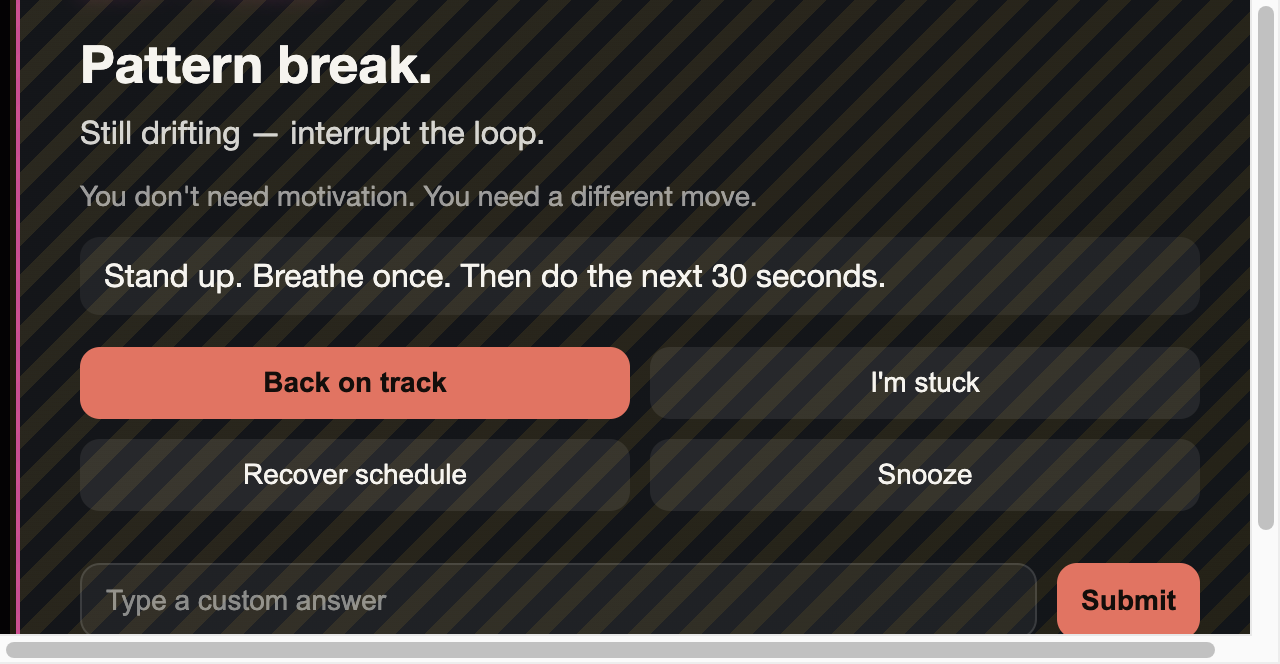
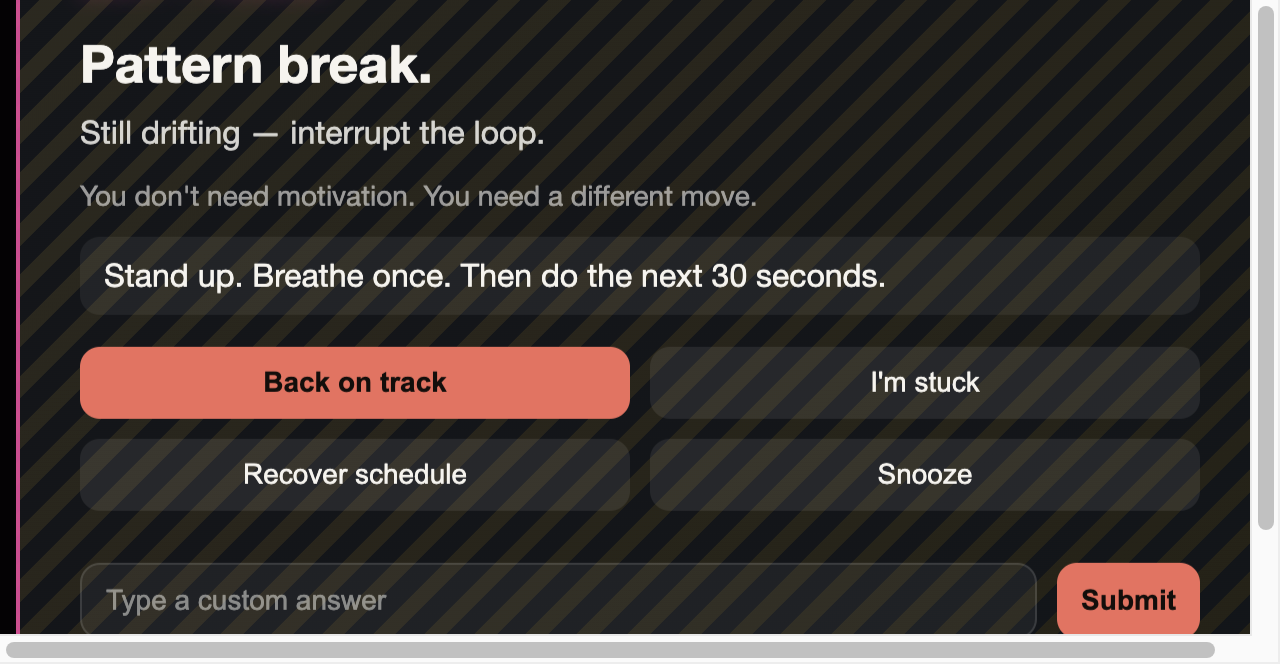
Overlay: pattern-break styling on DRIFT_PERSIST

Changed region(s): [[0.0, 0.0, 0.0312, 0.9639]]

diff --git a/overlay/overlay.css b/overlay/overlay.css
@@ -204,6 +204,28 @@ button.primary:hover {
   color: rgba(246, 244, 239, 0.5);
 }
 
+/* Visual pattern-break for persistent drift: subtle but unmistakable */
+@keyframes driftPersistPulse {
+  0% {
+    box-shadow: 0 20px 60px rgba(0, 0, 0, 0.45), 0 0 0 rgba(241, 108, 91, 0);
+    transform: translateY(0);
+  }
+  45% {
+    box-shadow: 0 20px 60px rgba(0, 0, 0, 0.45), 0 0 0 10px rgba(241, 108, 91, 0.12);
+    transform: translateY(-1px);
+  }
+  100% {
+    box-shadow: 0 20px 60px rgba(0, 0, 0, 0.45), 0 0 0 rgba(241, 108, 91, 0);
+    transform: translateY(0);
+  }
+}
+
+#overlay[data-event-type="DRIFT_PERSIST"] .card {
+  border-color: rgba(241, 108, 91, 0.35);
+  background: linear-gradient(140deg, rgba(26, 16, 16, 0.93), rgba(10, 12, 15, 0.96));
+  animation: driftPersistPulse 1.15s ease-in-out 0s 3;
+}
+
 /* Visual pattern-break: DRIFT_PERSIST should feel unmistakably different. */
 #overlay[data-event-type="DRIFT_PERSIST"] {
   background: rgba(10, 4, 10, 0.55);

diff --git a/overlay/overlay.js b/overlay/overlay.js
@@ -91,6 +91,7 @@ function showOverlay(payload) {
   }
 
   overlay.dataset.level = payload.level || "B";
+  overlay.dataset.eventType = payload.source_event_type || payload.event_type || "";
   currentPayload = payload;
   shownAt = Date.now();
 }

diff --git a/runner.py b/runner.py
@@ -1159,6 +1159,7 @@ def main() -> int:
                     "ts": dt.datetime.now().isoformat(),
                     "cmd_id": ensure_uuid(),
                     "source_event_id": event.get("event_id"),
+                    "source_event_type": event.get("type"),
                     "source": "runner",
                     "level": "B",
                     "style_id": "strict",
@@ -1178,6 +1179,7 @@ def main() -> int:
                     "ts": dt.datetime.now().isoformat(),
                     "cmd_id": ensure_uuid(),
                     "source_event_id": event.get("event_id"),
+                    "source_event_type": event.get("type"),
                     "source": "runner",
                     "level": "A",
                     "style_id": "calm",
@@ -1196,6 +1198,7 @@ def main() -> int:
                     "ts": dt.datetime.now().isoformat(),
                     "cmd_id": ensure_uuid(),
                     "source_event_id": event.get("event_id"),
+                    "source_event_type": event.get("type"),
                     "source": "runner",
                     "level": "B",
                     "style_id": "strict",
